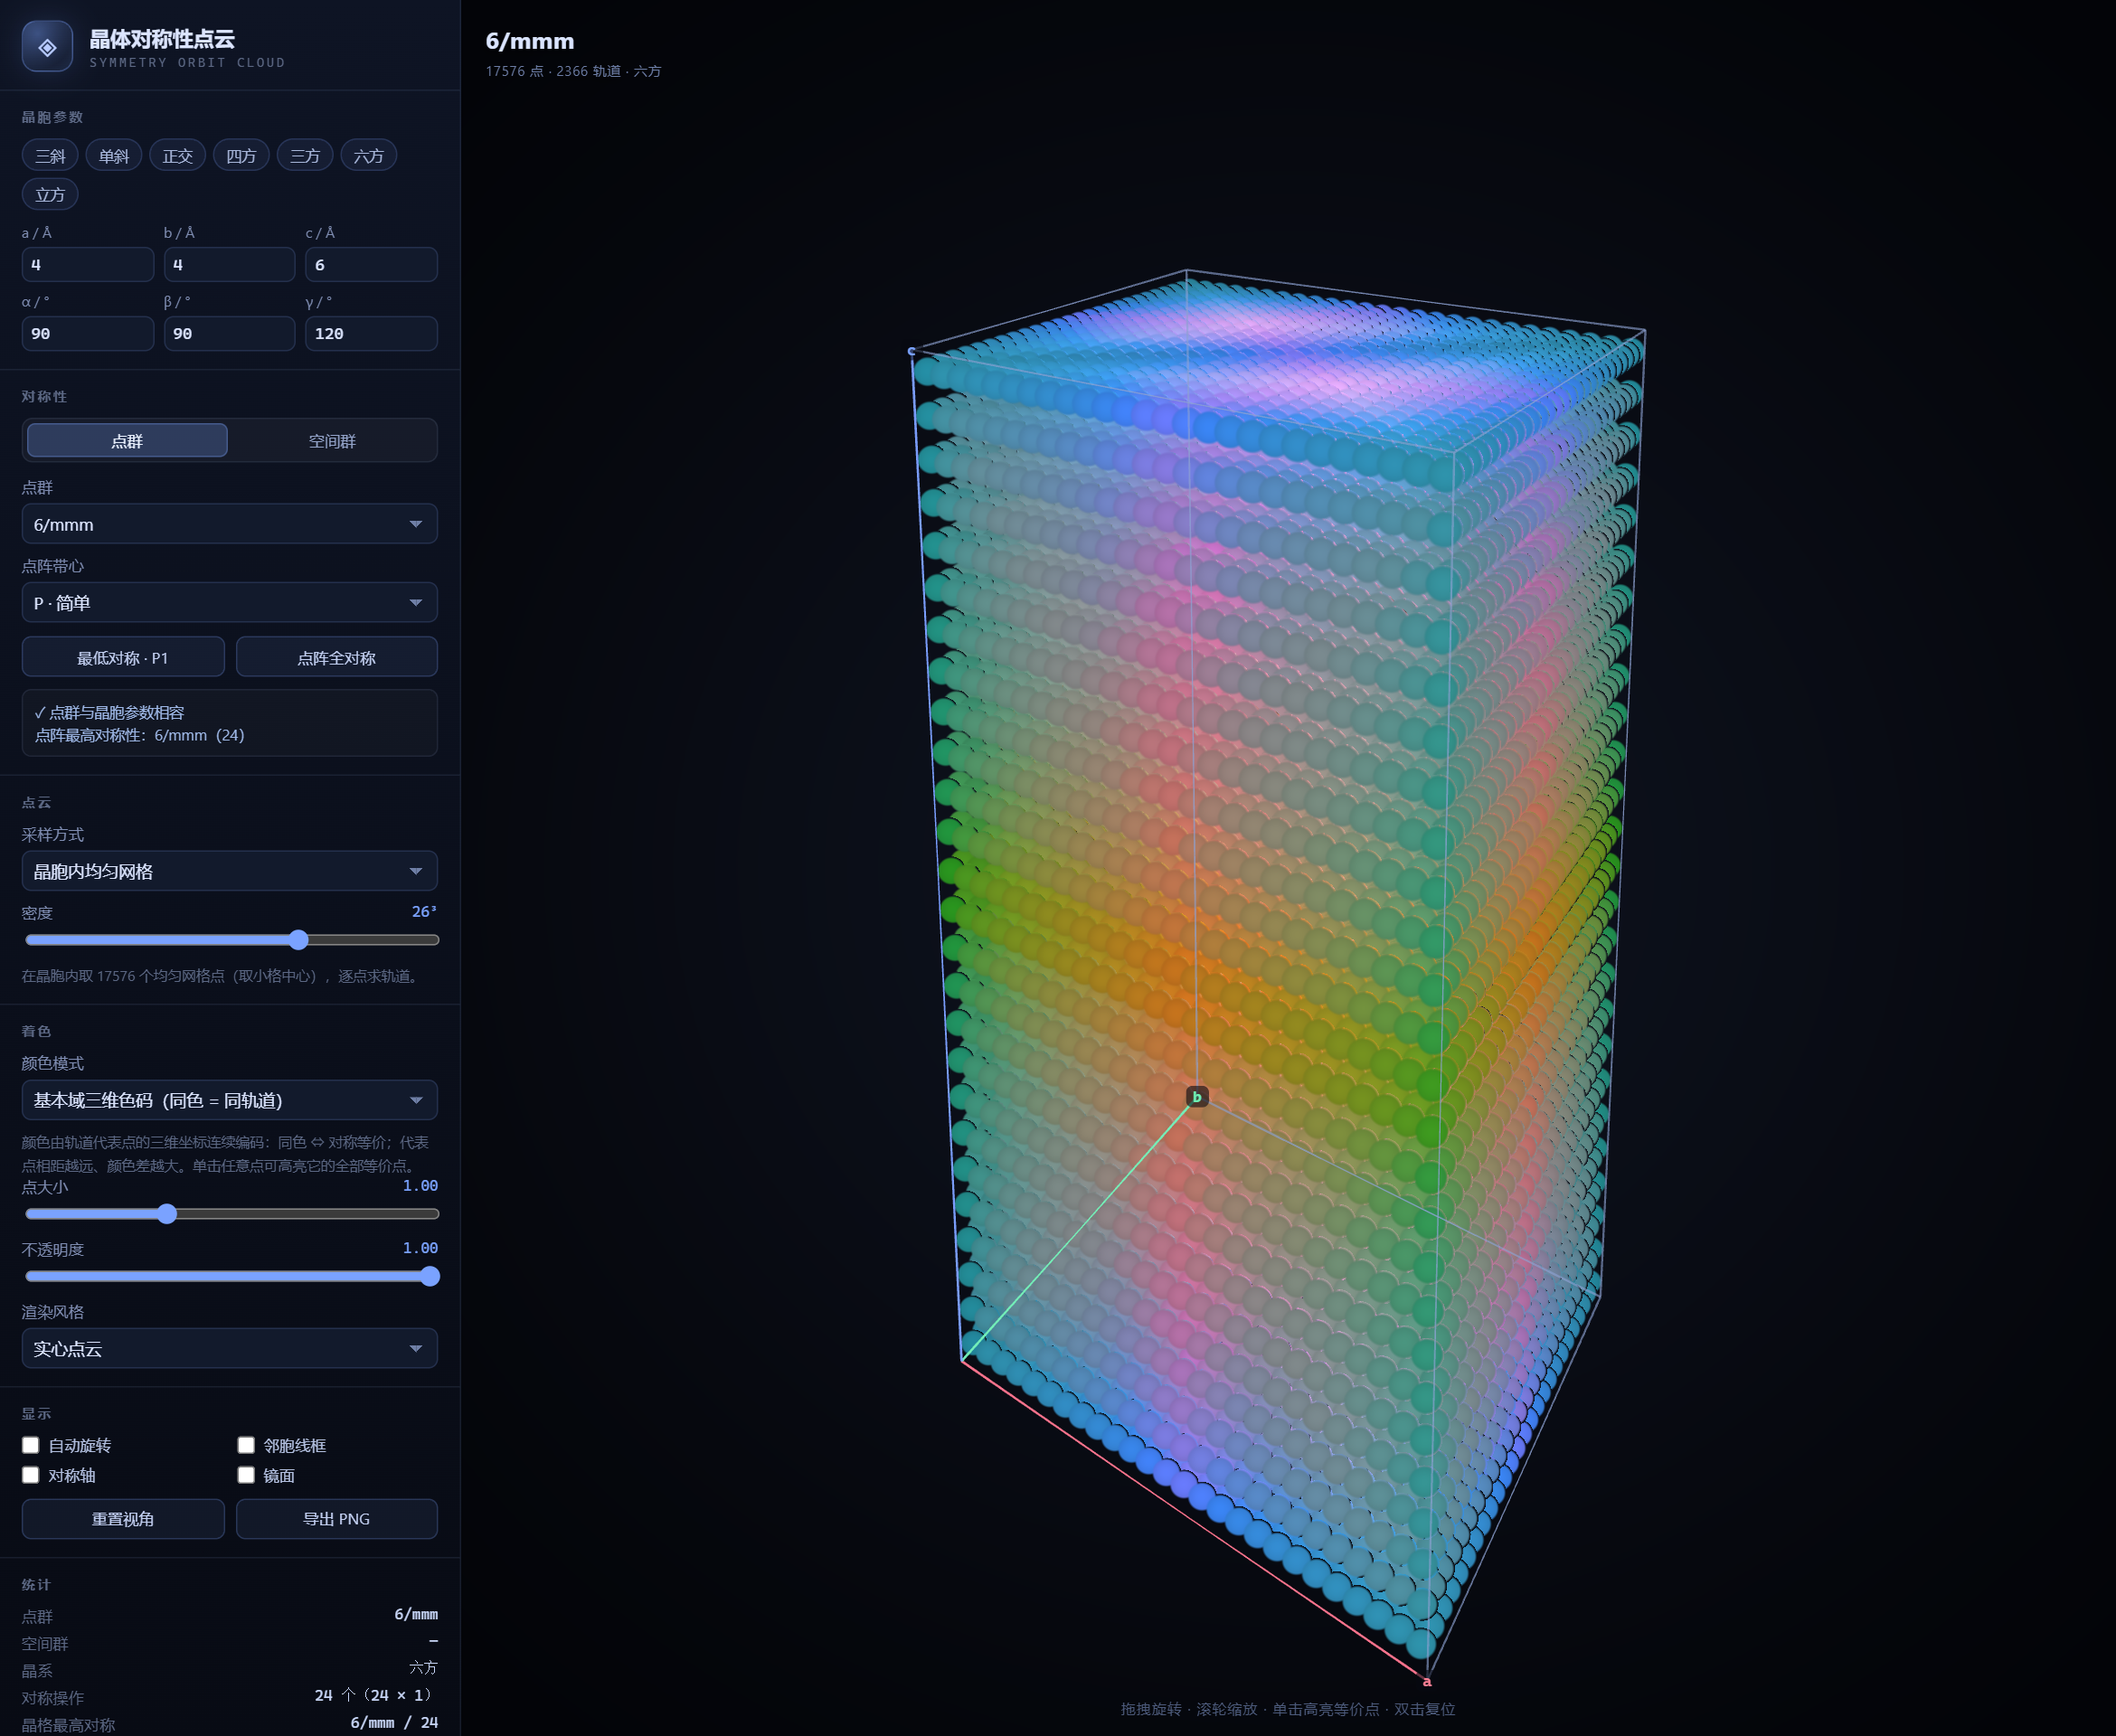
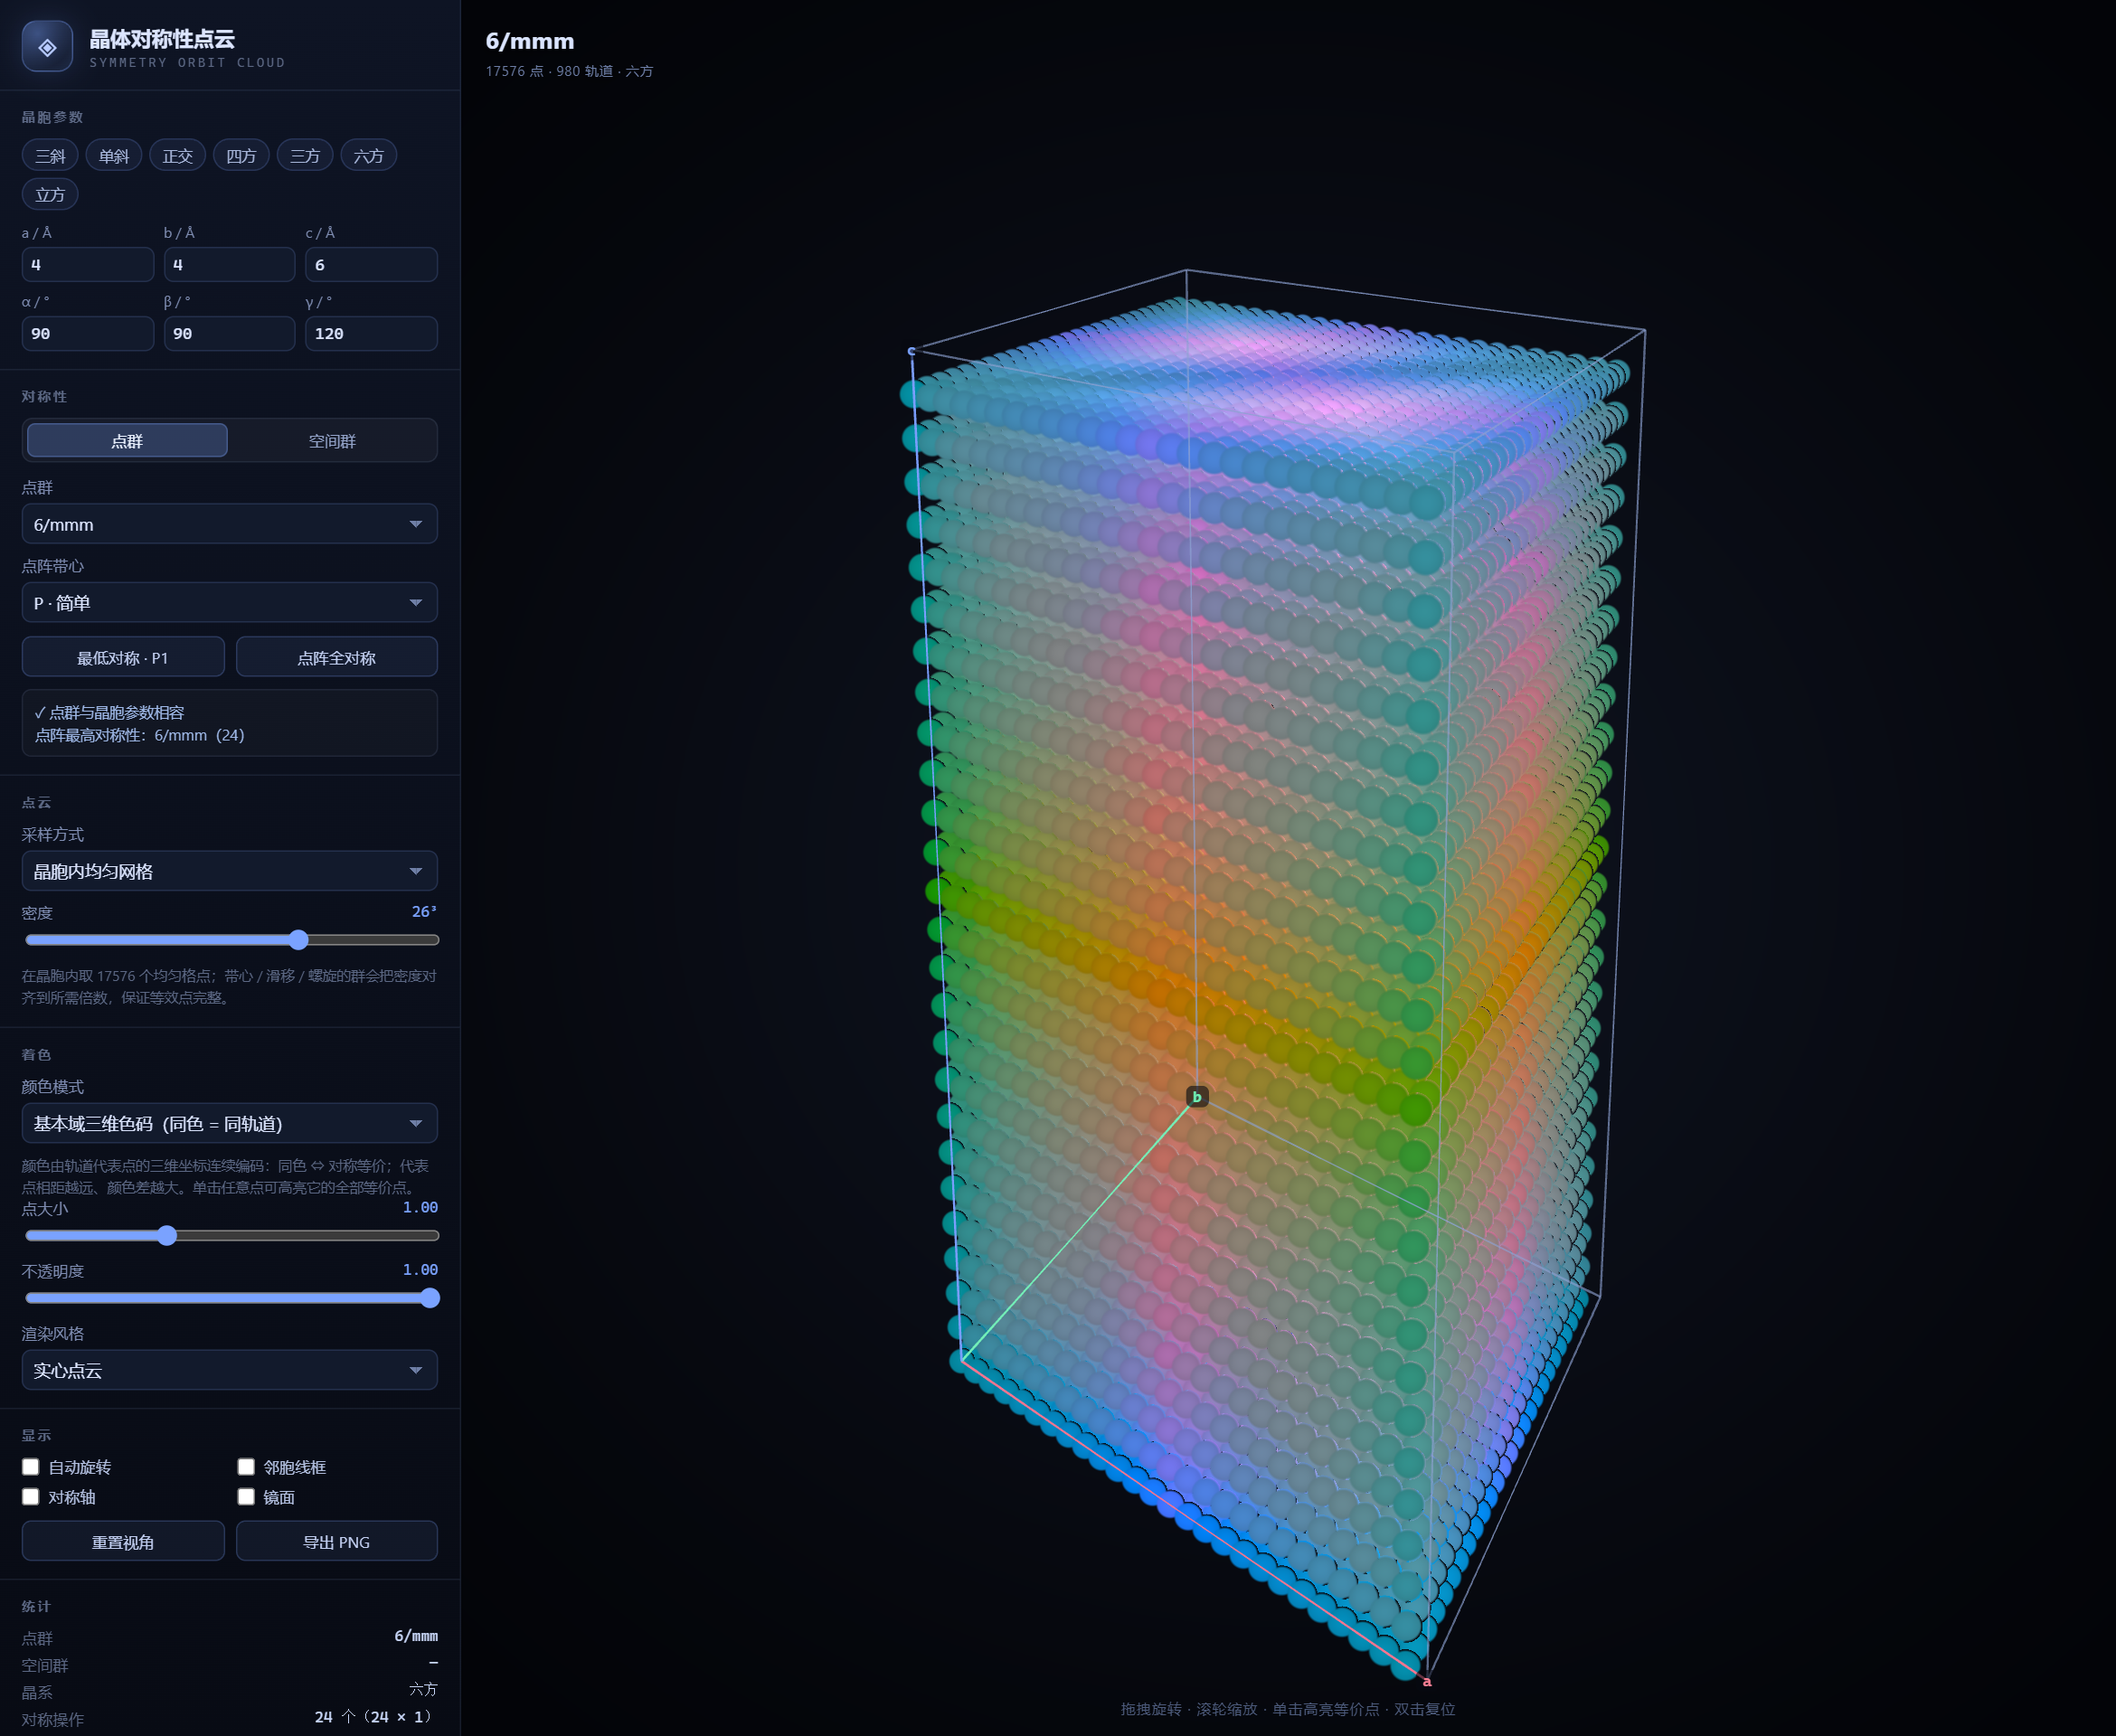
修复六方/三方等群网格采样不完整：改用格点采样并按平移分母对齐密度，随机点补全轨道

diff --git a/app.js b/app.js
@@ -413,6 +413,39 @@
     }
   }
 
+  /**
+   * 随机种子点 → 每个种子点的完整轨道（去重）。
+   * 随机点本身通常不会恰好包含全部对称像，补全后点击高亮才会显示完整轨道。
+   */
+  function expandRandomOrbits(prep, seeds) {
+    var f = prep.flat, cnt = prep.count, Q = S.QUANT;
+    var seenOrb = Object.create(null), seenPt = Object.create(null);
+    var out = [];
+    for (var i = 0; i < seeds.length; i += 3) {
+      var sx = seeds[i], sy = seeds[i + 1], sz = seeds[i + 2];
+      var q = S.canonicalize(prep, sx, sy, sz);
+      var okey = q[0] + '/' + q[1] + '/' + q[2];
+      if (seenOrb[okey]) continue;
+      seenOrb[okey] = true;
+      for (var j = 0; j < cnt; j++) {
+        var o = j * 12;
+        var x = f[o] * sx + f[o + 1] * sy + f[o + 2] * sz + f[o + 9];
+        var y = f[o + 3] * sx + f[o + 4] * sy + f[o + 5] * sz + f[o + 10];
+        var z = f[o + 6] * sx + f[o + 7] * sy + f[o + 8] * sz + f[o + 11];
+        x -= Math.floor(x); y -= Math.floor(y); z -= Math.floor(z);
+        var kx = Math.round(x * Q) % Q, ky = Math.round(y * Q) % Q, kz = Math.round(z * Q) % Q;
+        if (kx < 0) kx += Q;
+        if (ky < 0) ky += Q;
+        if (kz < 0) kz += Q;
+        var pkey = kx + '/' + ky + '/' + kz;
+        if (seenPt[pkey]) continue;
+        seenPt[pkey] = true;
+        out.push(x, y, z);
+      }
+    }
+    return Float64Array.from(out);
+  }
+
   /* ================================================================
    *  主计算流程
    * ================================================================ */
@@ -522,8 +555,22 @@
     var pointOrbit = null;                 // 每个采样点的轨道 id
 
     var frac = null;
-    if (state.sampleMode === 'grid') frac = S.sampleGrid(n);
-    else if (state.sampleMode === 'random') frac = S.sampleRandom(n * n * n, 20241016);
+    var gridInfo = null;
+    if (state.sampleMode === 'grid') {
+      // 整数旋转把格点映到格点；分数平移要求 n 是其分母的倍数，否则轨道会被采样网格截断
+      var gridMul = S.translationDenom(prep);
+      var nSnap = Math.max(2, Math.ceil(n / gridMul) * gridMul);
+      if (nSnap !== n) gridInfo = { mul: gridMul, n: nSnap };
+      n = nSnap;
+      frac = S.sampleGrid(n);
+      if (gridInfo) {
+        el.sampleHint.textContent = '在晶胞内取 ' + Math.pow(n, 3) + ' 个均匀格点（为完整轨道，密度自动对齐到 ' +
+          n + '³，平移分母 ' + gridMul + '）。';
+      }
+    } else if (state.sampleMode === 'random') {
+      // 随机点会补全每个种子点的整个轨道
+      frac = expandRandomOrbits(prep, S.sampleRandom(n * n * n, 20241016));
+    }
 
     var colorMode = state.colorMode;
     var canonBounds = canonicalBounds(groupKey, prep);
@@ -868,9 +915,11 @@
     if (isCustom) {
       el.sampleHint.textContent = '输入若干分数坐标（每行 x y z）；每个种子点按当前对称群展开成轨道，同一轨道的点同色。';
     } else if (state.sampleMode === 'random') {
-      el.sampleHint.textContent = '在晶胞内随机取 ' + Math.pow(state.resolution, 3) + ' 个点，适合观察轨道大小的统计分布。';
+      el.sampleHint.textContent = '在晶胞内随机取 ' + Math.pow(state.resolution, 3) +
+        ' 个种子点，并把每个种子点的完整轨道补全（去重）；点击任意点即可看到完整等效点。';
     } else {
-      el.sampleHint.textContent = '在晶胞内取 ' + Math.pow(state.resolution, 3) + ' 个均匀网格点（取小格中心），逐点求轨道。';
+      el.sampleHint.textContent = '在晶胞内取 ' + Math.pow(state.resolution, 3) +
+        ' 个均匀格点；带心 / 滑移 / 螺旋的群会把密度对齐到所需倍数，保证等效点完整。';
     }
   }
 
@@ -1194,16 +1243,22 @@
       var rect = canvas.getBoundingClientRect();
       return { x: rect.left + pr.x, y: rect.top + pr.y };
     },
-    /** 找一个靠近画面中心、可见的采样点（测试用） */
+    /** 找一个靠近画面中心、可见且轨道大小 > 1 的采样点（测试用） */
     pickCenterPoint: function () {
       if (!lastPoints) return null;
       var rect = canvas.getBoundingClientRect();
       var cx = canvas.clientWidth / 2;
       var cy = canvas.clientHeight / 2;
+      var counts = Object.create(null);
+      for (var q = 0; q < lastPoints.count; q++) {
+        var oid0 = lastPoints.orbitIds[q];
+        counts[oid0] = (counts[oid0] || 0) + 1;
+      }
       var best = -1;
       var bestPr = null;
       var bestD = Infinity;
       for (var i = 0; i < lastPoints.count; i++) {
+        if (counts[lastPoints.orbitIds[i]] <= 1) continue;
         var pr = renderer.project([
           lastPoints.positions[i * 3],
           lastPoints.positions[i * 3 + 1],

diff --git a/symmetry.js b/symmetry.js
@@ -690,21 +690,48 @@
    *  9. 晶胞采样
    * ================================================================== */
 
-  /** 均匀网格（取每个小格中心，避免落在胞壁上）→ 分数坐标 Float64Array */
+  /**
+   * 均匀网格（取格点 i/n）→ 分数坐标 Float64Array。
+   * 取格点而不是小格中心，是为了让整数旋转矩阵把网格映到自身；
+   * 带心 / 螺旋 / 滑移的分数平移还需要把 n 对齐到 translationDenom() 的倍数，
+   * 这样整个轨道的等价点都会落在采样网格里（点击高亮才会完整）。
+   */
   function sampleGrid(n) {
     var count = n * n * n;
     var out = new Float64Array(count * 3);
     var p = 0;
     for (var i = 0; i < n; i++) {
-      var x = (i + 0.5) / n;
+      var x = i / n;
       for (var j = 0; j < n; j++) {
-        var y = (j + 0.5) / n;
+        var y = j / n;
         for (var k = 0; k < n; k++) {
-          out[p++] = x; out[p++] = y; out[p++] = (k + 0.5) / n;
+          out[p++] = x; out[p++] = y; out[p++] = k / n;
         }
       }
     }
     return out;
+  }
+
+  /**
+   * 让采样网格在全部操作下保持不变的「最小 n 倍数」。
+   * 只取决于分数平移 t：t = k/12 的最简分母的 lcm。
+   * 无分数平移（P 带心、点群 1/2/m/mmm/4/mmm/m-3m…）时返回 1。
+   */
+  function translationDenom(prep) {
+    function gcd(a, b) { while (b) { var r = a % b; a = b; b = r; } return a; }
+    var m = 1;
+    var f = prep.flat, n = prep.count;
+    for (var i = 0; i < n; i++) {
+      var o = i * 12;
+      for (var k = 0; k < 3; k++) {
+        var kk = Math.round(f[o + 9 + k] * 12) % 12;
+        if (kk < 0) kk += 12;
+        if (kk === 0) continue;
+        var den = 12 / gcd(kk, 12);
+        m = m / gcd(m, den) * den;
+      }
+    }
+    return m;
   }
 
   /** 伪随机均匀采样（确定性，便于复现） */
@@ -775,6 +802,7 @@
     KIND_LABELS: KIND_LABELS,
 
     sampleGrid: sampleGrid,
+    translationDenom: translationDenom,
     sampleRandom: sampleRandom
   };
 });

diff --git a/README.md b/README.md
@@ -60,8 +60,8 @@
 - 晶胞与空间群的标准设置不符时给出警告，并可一键把晶胞参数对齐到该空间群所需的晶系。
 
 **点云**
-- 晶胞内均匀网格（默认 26³ = 17576 点，滑块 6³ ~ 36³）。
-- 晶胞内随机点（确定性伪随机，方便复现）。
+- 晶胞内均匀网格（默认 26³ = 17576 点，滑块 6³ ~ 36³）：取**格点** k/n，并把 n 自动对齐到当前对称群平移分母的倍数，保证一个轨道的全部等价点都落在网格里。
+- 晶胞内随机点（确定性伪随机，方便复现）：每个种子点的**完整轨道**会被展开并去重。
 - 自定义分数坐标：每行一个种子点 `x y z`，按当前对称群（点群或空间群）展开成轨道，同一轨道的点同色 —— 「Wyckoff 位置」的直观版本。
 
 **颜色（核心）**
@@ -107,6 +107,14 @@ orbit(p) = { (R p + t) mod 1 : R ∈ 点群, t ∈ 带心平移 }
 ```
 
 同一轨道的点就是晶体学上「等价」的点。
+
+为了让点击高亮能显示**完整**轨道，采样必须与对称操作兼容：
+
+- 网格取格点 `k/n`（而不是小格中心）：整数旋转矩阵会把格点映到格点；
+- 带心 / 螺旋 / 滑移的分数平移要求 `n` 是其分母的倍数（`translationDenom`），程序会自动把密度对齐到该倍数，例如 R 带心取 `n` 为 3 的倍数、Fd-3m 取 4 的倍数；
+- 随机采样则对每个种子点展开完整轨道后去重。
+
+否则会出现「六方 6 点群每个轨道只采到 2 个点、点击却显示 6 重对称」这类矛盾。
 
 ### 1b. 空间群（230 个 ITA 标准设置）
 
@@ -194,7 +202,7 @@ index.html?pg=m-3m&a=5&b=5&c=5&n=30&autorot=0&ui=0
 ## 自检
 
 ```bash
-# 对称性数学核心：153 项
+# 对称性数学核心：155 项
 node tests/test-symmetry.mjs
 
 # 三维颜色码：7 项（色域、亮度上下限、单射、距离单调）
@@ -203,7 +211,7 @@ node tests/test-color.mjs
 # 空间群数据：20 项（230 群操作数/闭包/度规、符号别名、Wyckoff 多重度、原点选择）
 node tests/test-spacegroups.mjs
 
-# 真实浏览器交互/渲染自检（需要本机 Edge，路径见脚本顶部）：50 项
+# 真实浏览器交互/渲染自检（需要本机 Edge，路径见脚本顶部）：51 项
 node tests/cdp-check.mjs
 ```
 
@@ -219,7 +227,7 @@ node tests/cdp-check.mjs
 Wyckoff 特殊位置多重度、73 个共形群与「点群 × 带心」的一致性、24 个双原点群的两个变体差异。
 
 `cdp-check.mjs` 通过 Chrome DevTools Protocol 驱动无头 Edge，验证预设、点群切换、带心、
-**空间群模式（Pnma / Cmcm / Fd-3m 原点选择）**、不相容提示与一键对齐、自定义点云展开、
+**空间群模式（Pnma / Cmcm / Fd-3m 原点选择）**、**六方 6 点群轨道完整性回归**、不相容提示与一键对齐、自定义点云展开、
 **「同一轨道颜色严格相同 / 不同轨道颜色清晰可辨 / 亮度不过暗」**、**单击高亮等价点与 Esc 取消**、
 默认不自动旋转，并顺带重新生成 `shots/` 里的终版截图。
 
